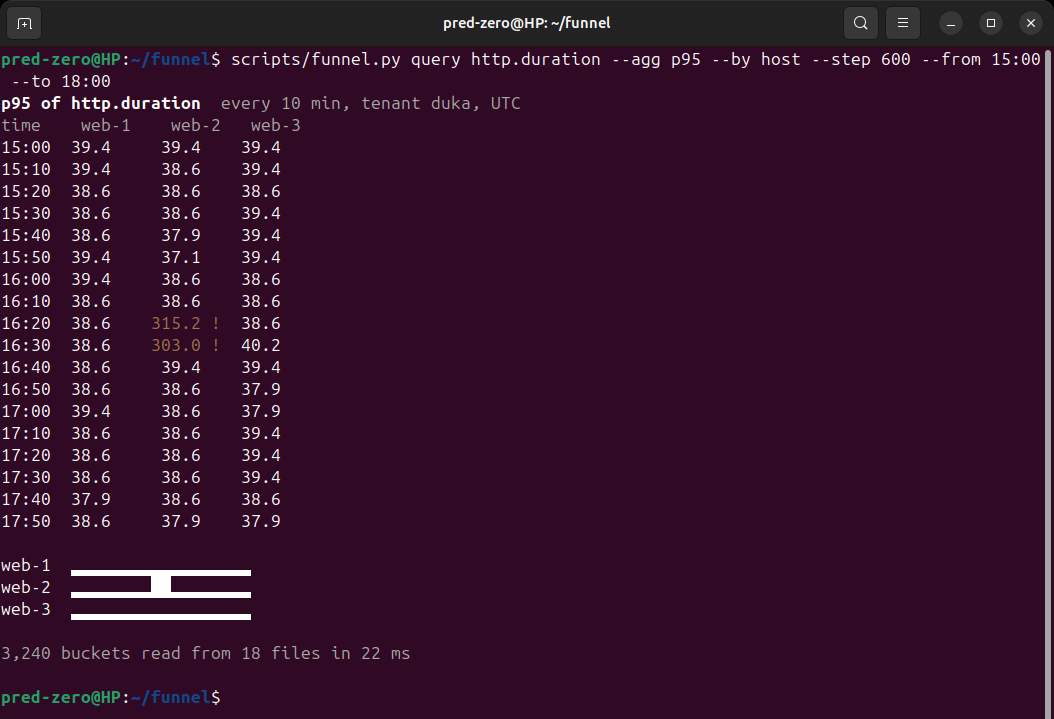
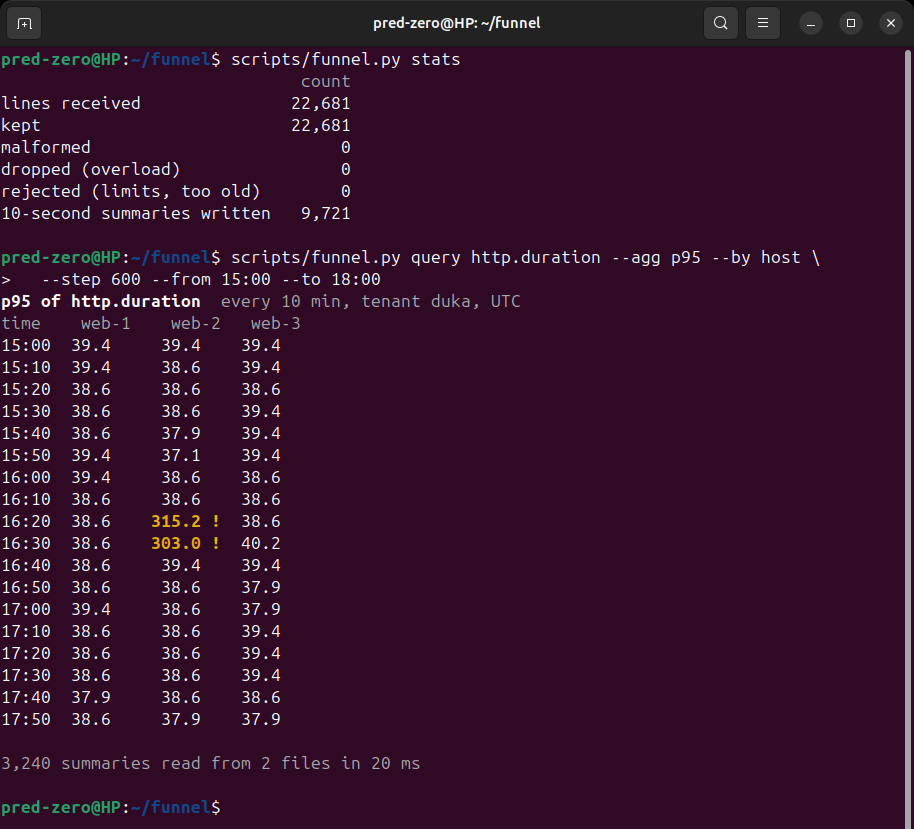
Retake the screenshots narrower, without wrapped commands

Changed region(s): [[0.0, 0.0, 1.0, 1.0], [0.7965, 0.306, 0.8884, 0.3366]]

diff --git a/README.md b/README.md
@@ -6,7 +6,7 @@ number, which makes it cheap enough to run on a $6 server, and it can save the h
 [Apache Iceberg](https://iceberg.apache.org/) tables on your own disk or in a Cloudflare R2
 bucket, where any SQL engine can read it.
 
-![p95 latency per server, every 10 minutes, with web-2 flagged at 315 ms](docs/images/03-latency.png)
+![Funnel's stats, then p95 latency per server every 10 minutes, with web-2 flagged at 315 ms](docs/images/03-latency.png)
 
 That table is Funnel telling you one of three servers got slow for twenty minutes. The rest of
 this page follows that afternoon from start to finish. Every screenshot is a real run on a laptop.
@@ -37,8 +37,8 @@ three hours of traffic from all three servers, including the slow patch on web-2
 
 ![Sending one metric by hand, then three hours of history](docs/images/02-send.png)
 
-Funnel received 22,681 lines and kept them as 9,721 summaries, one per server per metric per 10
-seconds. Each summary holds enough to answer the usual questions later: the total, the minimum and
+Funnel received 22,681 lines and kept them as 9,721 summaries (the stats at the top of the first
+screenshot), one per server per metric per 10 seconds. Each summary holds enough to answer the usual questions later: the total, the minimum and
 maximum, and a small [sketch](crates/sketch) of about 1 KB that gives any percentile to within 1%.
 This demo sends only a few numbers per 10 seconds. Real traffic sends far more, and on a simulated
 backend of 7,000 series each summary replaced 41 raw numbers.
@@ -49,9 +49,8 @@ Customers say checkout felt slow around 4 pm. Wanjiru asks for the 95th percenti
 on each server, in 10-minute steps. That's the time 95% of requests finished within.
 
 The answer is the table at the top of this page. web-1 and web-3 stay at about 39 ms all afternoon. web-2 jumps to 315 ms at 16:20 and 303 ms at
-16:30, then recovers. The `!` marks values far above the rest, and the bars at the bottom put all
-three servers on one scale, so the spike is visible at a glance. Funnel answered from 3,240
-summaries in 22 ms.
+16:30, then recovers. The `!` marks values far above the rest. Funnel answered from 3,240
+summaries in 20 ms.
 
 ### 4. Was web-2 backed up?
 
@@ -75,8 +74,8 @@ also keeps copies summed to 1 minute, 10 minutes and 1 hour, and its query plann
 query to the 1-hour table because that gives exactly the same answer from far fewer rows. On a
 week of data from 200 servers, that made the same kind of query 31 times faster.
 
-This query took 12 seconds, nearly all of it spent talking to Cloudflare's catalog and storage from
-the laptop. With the tables on local disk, a 7-day query takes under half a second.
+This query took about 17 seconds, nearly all of it spent talking to Cloudflare's catalog and
+storage from the laptop. With the tables on local disk, a 7-day query takes under half a second.
 
 ### 6. The same data, read by Cloudflare
 
@@ -86,8 +85,7 @@ per server.
 
 ![Funnel and Basin SQL return the same request totals per server](docs/images/06-basin.png)
 
-Both return 106,572, 106,975 and 108,369. Basin SQL read only 45.9 kB from R2, since the query
-names the hourly table. Basin SQL can't read the latency sketches, which are Funnel's own
+Both return 106,573, 106,975 and 108,369. Basin SQL read 258 kB from R2 to answer. Basin SQL can't read the latency sketches, which are Funnel's own
 binary format, so percentiles still come from Funnel. Counts, sums, minimums and maximums work in
 both.
 
@@ -137,14 +135,14 @@ To follow the story above on your own machine:
 
 ```sh
 ./target/release/funnel --data-dir data --lake-dir lake        # local disk only
-python3 scripts/backfill.py --tenant duka --incident           # in another terminal
+python3 scripts/backfill.py --tenant duka --incident --end $(date -ud 18:00 +%s)   # in another terminal
 export FUNNEL_TENANT=duka
 scripts/funnel.py query http.duration --agg p95 --by host --step 600 --from 15:00 --to 18:00
 scripts/funnel.py sql "SELECT tags, max(max) AS peak FROM metrics WHERE metric = 'queue.depth' GROUP BY 1"
 ```
 
-`backfill.py` writes the three most recent finished hours, so adjust `--from` and `--to` to the
-times it prints. Hours reach SQL about a minute after they are sent.
+`--end` is when the three hours of data stop, so it has to be in the past; adjust `--from` and
+`--to` to match. Hours reach SQL about a minute after they are sent.
 
 To publish to Cloudflare instead of a local directory, create an R2 bucket, turn on Basin Catalog
 for it in the R2 dashboard, and give Funnel the catalog address:
